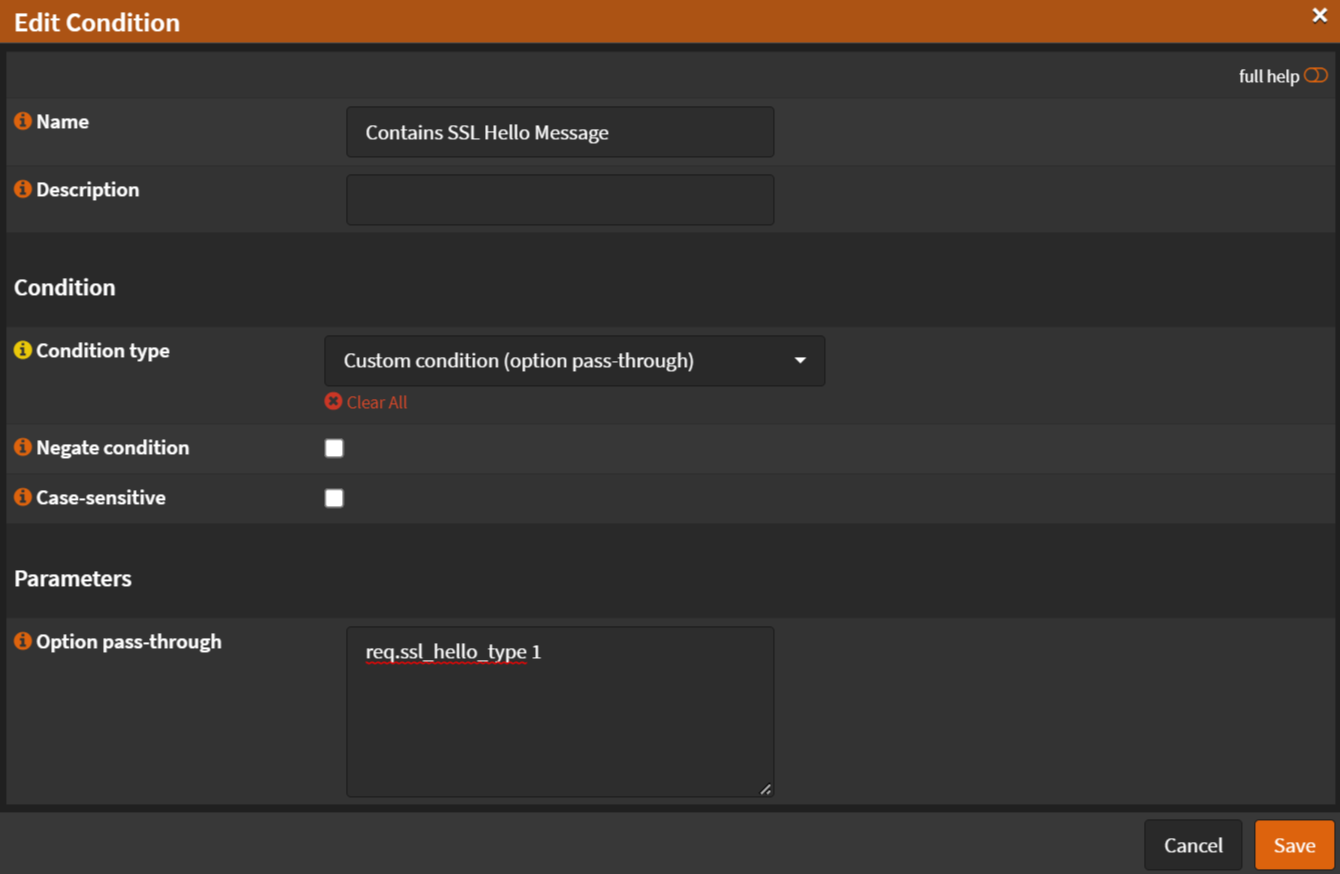
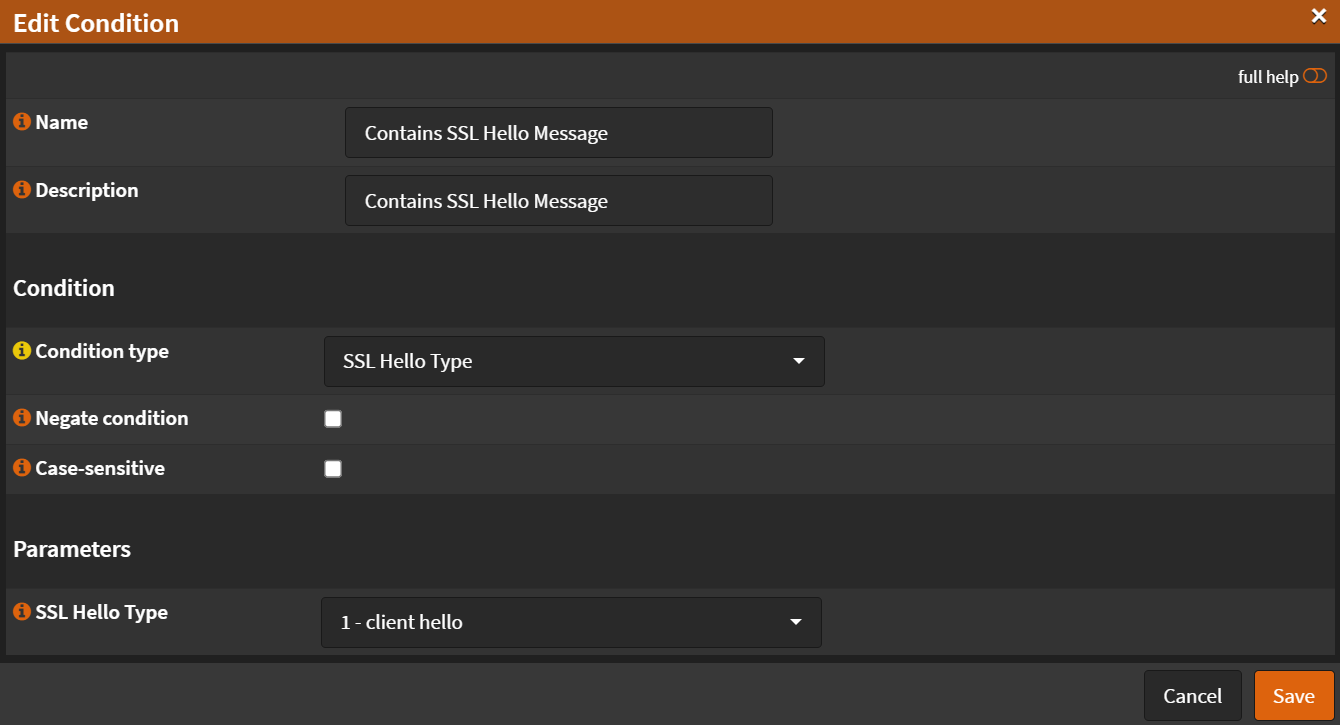
opn/haproxy switch from custom to UI support rule

diff --git a/docs/networking/2-opnsense/13-haproxy/3-sni/2-rules-checks.md b/docs/networking/2-opnsense/13-haproxy/3-sni/2-rules-checks.md
@@ -32,8 +32,8 @@ Navigate to `Services` -> `HAProxy` -> `Settings`
 
 - Click <kbd>➕</kbd>
 - Name: `Contains SSL Hello Message`
-- Condition Type: `Custom condition (option pass-through`
-- Option pass-through: `req.ssl_hello_type 1`
+- Condition Type: `SSL Hello Type`
+- SSL Hello Type: `1-client-hello`
 
 ![haproxy-sni-condition-contains-ssl-hello](img/haproxy-sni-condition-contains-ssl-hello.png)
 
